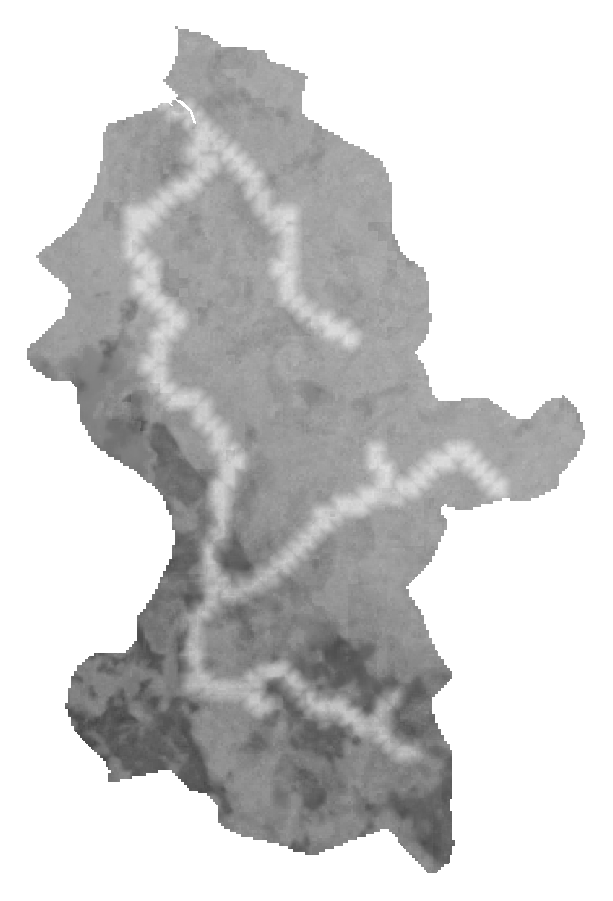
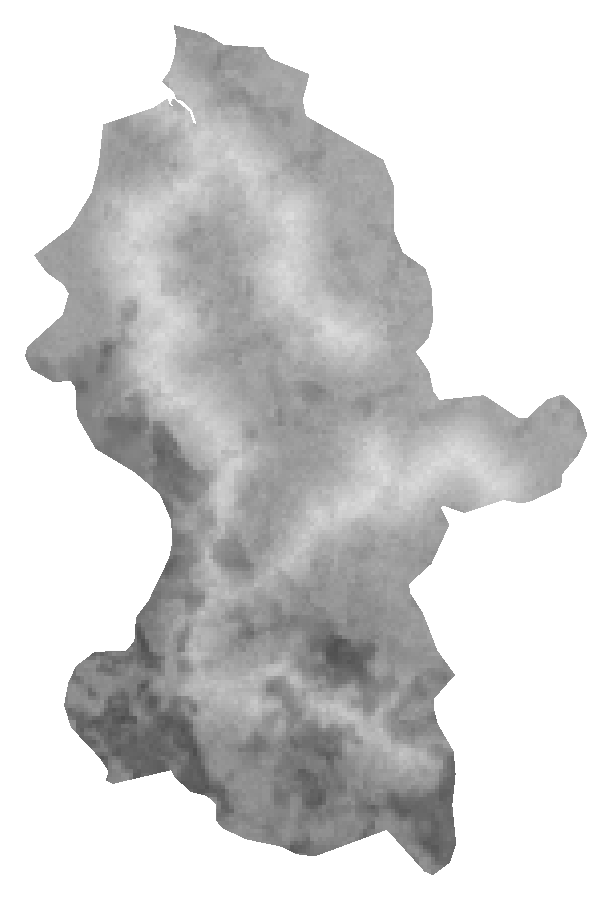
Mapas ERI provisionales recortados del ERI de la cuenca para 26 subcuencas
El modo restringido de Earth Engine impide generar ahora los mapas ERI
propios. Se recorta el raster ERI de la CHCP (pixel 42,6 m) a la malla de
cada subcuenca y se enmascara con su raster SINIA 2021. La ficha lo indica
en la lectura del mapa; el valor ERI de cada ficha no cambia. El modo
solo-mapa-eri reemplaza estos recortes por los mapas propios.

Claude-Session: https://claude.ai/code/session_01CNC7kniWXwoUrRNVPH5fEa

diff --git a/webapp/static/js/ficha.js b/webapp/static/js/ficha.js
@@ -182,7 +182,12 @@
     if (capa('coincidencia')) figs.push(png('coincidencia'));
     if (t.id !== 'chcp') figs.push({ id: 'red', tipo: 'red', titulo: 'Parches de bosque y red de conectividad', leyenda: '<div class="fi-legend"><span><i style="background:#1b5e20"></i>Importancia alta</span><span><i style="background:#66bb6a"></i>Media</span><span><i style="background:#c5e1a5"></i>Baja</span><span><i class="dash"></i>Brecha candidata</span></div>',
       lectura: 'Bosque oficial 2021 en parches, según su aporte a la conectividad (dIIC), y las brechas que convendría cerrar.' });
-    if (capa('eri')) figs.push(png('eri'));
+    if (capa('eri')) {
+      const f = png('eri');
+      // Subcuencas sin mapa ERI propio: recorte del mapa ERI de toda la cuenca (mismo modelo, malla más gruesa).
+      if (t.mapas.eri_origen === 'cuenca') f.lectura += ` Este mapa es un recorte del ERI calculado para toda la cuenca (píxel de ${number(t.mapas.eri_tamano_pixel_m || 43, 0)} m): los colores pueden diferir algo del mapa propio de la subcuenca, que se generará más adelante. El valor ERI de la ficha sí se calculó para esta subcuenca.`;
+      figs.push(f);
+    }
     if (capa('riparia')) figs.push(png('riparia'));
     return figs.filter(Boolean);
   }

diff --git a/scripts/eri_desde_cuenca.py b/scripts/eri_desde_cuenca.py
@@ -1,0 +1,93 @@
+"""Mapa ERI de las subcuencas que no lo tienen, recortado del mapa ERI de toda la cuenca.
+
+La imagen ERI por subcuenca es la capa más lenta de Earth Engine (y con la cuota no comercial
+agotada no termina). El ERI de la CHCP completa ya está calculado con el mismo modelo
+(eri_gee.construir_imagenes_eri) en una malla de 42,6 m: aquí se remuestrea por vecino más
+cercano a la malla de cada subcuenca y se recorta a su límite. No usa Earth Engine.
+
+El resultado se marca con ``mapas.eri_origen = "cuenca"`` y la ficha lo indica. El modo
+«solo-mapa-eri» de precalcular_panel.py vuelve a generar estos mapas a la resolución propia
+de la subcuenca cuando haya cuota.
+
+Uso: python scripts/eri_desde_cuenca.py
+"""
+from __future__ import annotations
+
+import json
+import math
+import sys
+from pathlib import Path
+
+import numpy as np
+from PIL import Image
+
+RAIZ = Path(__file__).resolve().parents[1]
+sys.path.insert(0, str(RAIZ))
+
+from chcp.gee.mapas_ficha import (  # noqa: E402
+    CAPAS_POR_CLAVE, CODIFICACION_VALORES, SIN_VALOR, colorear, decodificar, png, png_gris,
+)
+
+DATOS = RAIZ / "data" / "estadisticas_territoriales.json"
+DIR_MAPAS = RAIZ / "data" / "mapas"
+R = 6_378_137.0
+
+
+def _mx(lon: float) -> float:
+    return R * math.radians(lon)
+
+
+def _my(lat: float) -> float:
+    return R * math.log(math.tan(math.pi / 4 + math.radians(lat) / 2))
+
+
+def remuestrear(origen: np.ndarray, lim_o, destino_forma: tuple[int, int], lim_d) -> np.ndarray:
+    """Vecino más cercano entre dos mallas EPSG:3857 dadas por sus límites [[s, o], [n, e]]."""
+    (s_o, o_o), (n_o, e_o) = lim_o
+    (s_d, o_d), (n_d, e_d) = lim_d
+    h_o, w_o = origen.shape
+    h_d, w_d = destino_forma
+    xs = _mx(o_d) + (np.arange(w_d) + 0.5) * (_mx(e_d) - _mx(o_d)) / w_d
+    ys = _my(n_d) - (np.arange(h_d) + 0.5) * (_my(n_d) - _my(s_d)) / h_d
+    col = np.floor((xs - _mx(o_o)) / ((_mx(e_o) - _mx(o_o)) / w_o)).astype(int)
+    fila = np.floor((_my(n_o) - ys) / ((_my(n_o) - _my(s_o)) / h_o)).astype(int)
+    dentro_c, dentro_f = (col >= 0) & (col < w_o), (fila >= 0) & (fila < h_o)
+    salida = np.full((h_d, w_d), SIN_VALOR, dtype="uint8")
+    sub = origen[np.clip(fila, 0, h_o - 1)][:, np.clip(col, 0, w_o - 1)]
+    mascara = dentro_f[:, None] & dentro_c[None, :]
+    salida[mascara] = sub[mascara]
+    return salida
+
+
+def main() -> int:
+    datos = json.loads(DATOS.read_text(encoding="utf-8"))
+    T = datos["territorios"]
+    cuenca = T["chcp"]["mapas"]
+    eri = np.array(Image.open(DIR_MAPAS / "chcp" / "eri.v.png").convert("L"))
+    hechos = []
+    for ident, t in T.items():
+        m = t.get("mapas") or {}
+        if ident == "chcp" or "eri" in (m.get("capas") or []) and m.get("eri_origen") != "cuenca":
+            continue
+        base = DIR_MAPAS / ident / "sinia_2021.v.png"  # define la malla y el límite de la subcuenca
+        if not base.exists() or not m.get("limites"):
+            continue
+        huella = np.array(Image.open(base).convert("L")) != SIN_VALOR
+        q = remuestrear(eri, cuenca["limites"], huella.shape, m["limites"])
+        q[~huella] = SIN_VALOR
+        (DIR_MAPAS / ident / "eri.v.png").write_bytes(png_gris(q))
+        (DIR_MAPAS / ident / "eri.png").write_bytes(png(colorear(decodificar(q, CODIFICACION_VALORES["eri"]), CAPAS_POR_CLAVE["eri"])))
+        m["capas"] = [c for c in CAPAS_POR_CLAVE if c in set(m.get("capas") or []) | {"eri"}]
+        m["valores"] = list(dict.fromkeys([*(m.get("valores") or []), "eri"]))
+        m["eri_origen"] = "cuenca"
+        m["eri_tamano_pixel_m"] = cuenca.get("tamano_pixel_m")
+        (m.get("errores") or {}).pop("eri", None)
+        m.pop("eri_pendiente", None)
+        hechos.append(t["nombre"])
+    DATOS.write_text(json.dumps(datos, ensure_ascii=False, indent=1), encoding="utf-8")
+    print(f"Mapa ERI recortado de la cuenca en {len(hechos)} subcuencas: {', '.join(hechos)}")
+    return 0
+
+
+if __name__ == "__main__":
+    raise SystemExit(main())

diff --git a/scripts/precalcular_panel.py b/scripts/precalcular_panel.py
@@ -290,6 +290,8 @@ def _solo_mapa_eri(territorio: dict, registro: dict) -> str:
             mapas["valores"] = list(dict.fromkeys([*(mapas.get("valores") or []), "eri"]))
         errores.pop("eri", None)
         mapas.pop("eri_pendiente", None)
+        mapas.pop("eri_origen", None)  # ya no es el recorte del mapa de la cuenca
+        mapas.pop("eri_tamano_pixel_m", None)
         return "listo"
     errores["eri"] = nuevo["errores"].get("eri", "sin resultado")
     return f"ERROR {errores['eri']}"
@@ -443,7 +445,8 @@ def main() -> int:
         _initialize_ee()
         ee.data.setDeadline(10 * 60 * 1000)
         objetivo = [t for t in _territorios() if t["id"] in datos["territorios"]
-                    and "eri" not in ((datos["territorios"][t["id"]].get("mapas") or {}).get("capas") or [])]
+                    and ("eri" not in ((datos["territorios"][t["id"]].get("mapas") or {}).get("capas") or [])
+                         or (datos["territorios"][t["id"]].get("mapas") or {}).get("eri_origen") == "cuenca")]
         if args.limite:
             objetivo = objetivo[: args.limite]
         print(f"Mapa ERI pendiente en {len(objetivo)} territorios.")
